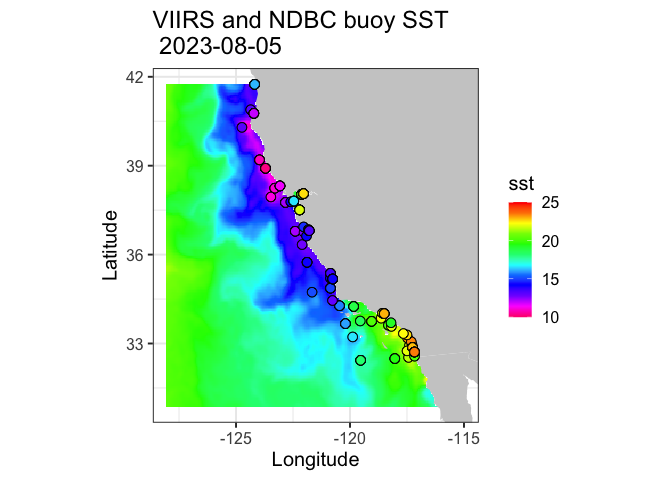
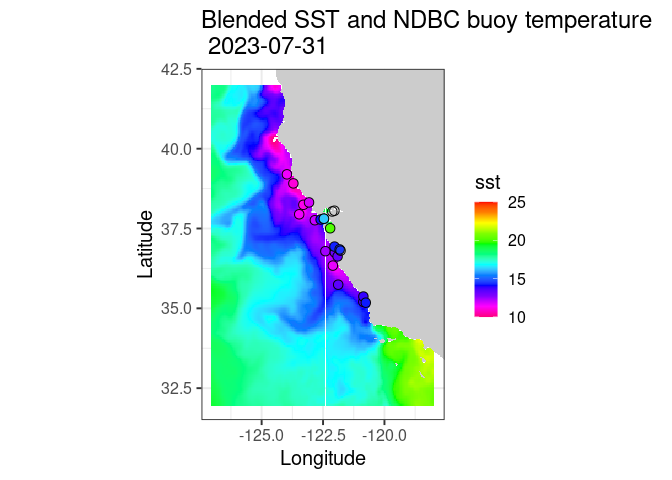
fixed a lot of inconsistencies fue to change of dataset from VIIRS chl to blended SST

Changed region(s): [[0.1562, 0.0, 0.9688, 1.0], [0.8125, 0.6562, 0.8438, 0.6875]]

diff --git a/matchup-satellite-buoy-data/matchup_satellite_buoy_data.md b/matchup-satellite-buoy-data/matchup_satellite_buoy_data.md
@@ -1,18 +1,14 @@
-# Matchup satellite and buoy data
-
-> history \| Updated August 2023
+\# Match up satellite and buoy data \> history \| Updated August 2023
 
 There are buoys in many locations around the world that provide data
 streams of oceanic and atmospheric parameters. The data are often
-available through data centers like the those National Data Buoy Center
-(NDBC <https://www.ndbc.noaa.gov>) and ARGO floats program
+available through data centers like the National Data Buoy Center (NDBC
+<https://www.ndbc.noaa.gov>) and the ARGO floats program
 (<http://www.argo.ucsd.edu>). In situ buoy data are widely used to
 monitor environmental conditions.
 
-In the absence of in situ buoy data, whether the buoy operation is
-discontinued, interrupted, or limited, satellite data with close
-temporal and spatial coverage can be used to create a dataset in the
-format of in situ buoy data.
+In-situ buoy data can be used to evaluate the accuracy of satellite
+data.
 
 **In this exercise, we will learn** how to match up satellite data to in
 situ buoy data using rerddap and rxtracto R packages.
@@ -22,19 +18,19 @@ The exercise demonstrates the following techniques:
 - Downloading tabular data (buoy data) from CoastWatch ERDDAP data
   server
 - Retrieving information about a dataset from ERDDAP
-- Subsetting satellite data within a rectangular boundaries
+- Subsetting satellite data within a rectangular boundary
 - Matching satellite data with the buoy data
-- Generating linear regression
+- Running statistical analysis to compare buoy and satellite data
 - Producing satellite maps and overlaying buoy data
 
 **Datasets used:**
 
 - <a href="https://coastwatch.pfeg.noaa.gov/erddap/griddap/nesdisBLENDEDsstDNDaily.graph">The
-  sea surface temperature (SST) satellite data</a> from NOAA Geo-polar
-  blended analysis are used for transforming to buoy data format
+  sea surface temperature (SST) satellite data</a> from the NOAA
+  Geo-polar blended analysis
 - <a href="https://coastwatch.pfeg.noaa.gov/erddap/tabledap/cwwcNDBCMet.graph?time%2Cwtmp%2Cwd&station=%2246259%22&time%3E=2020-09-15T00%3A00%3A00Z&time%3C=2022-09-15T00%3A00%3A00Z&.draw=markers&.marker=5%7C5&.color=0x000000&.colorBar=%7C%7C%7C%7C%7C&.bgColor=0xffccccff">
-  NDBC Standard Meteorological Buoy Data (dataset ID: cwwcNDBCMet) </a>
-  was used for validating or ground truthing
+  The NDBC Standard Meteorological Buoy Data (dataset ID: cwwcNDBCMet)
+  </a> is used for validating or ground truthing the satellite SST data
 
 **References:** -
 <a href="https://coastwatch.pfeg.noaa.gov/data.html">NOAA CoastWatch
@@ -44,7 +40,7 @@ National Data Buoy Center</a> -
 <a href="https://docs.ropensci.org/rerddap/">Rerddap R Package
 reference</a>
 
-## Install required packages and load libraries
+\## Install required packages and load libraries
 
 ``` r
 # Function to check if pkgs are installed, install missing pkgs, and load
@@ -61,7 +57,7 @@ pkgTest <- function(x)
 list.of.packages <- c( "ncdf4", "rerddap", "plotdap", "httr",
                        "lubridate", "gridGraphics",  "mapdata",
                        "ggplot2", "RColorBrewer", "grid", "PBSmapping", 
-                       "rerddapXtracto")
+                       "rerddapXtracto","dplyr")
 
 # create list of installed packages
 pkges = installed.packages()[,"Package"]
@@ -73,29 +69,34 @@ for (pk in list.of.packages) {
 
 ## Downloading buoy data from ERDDAP
 
-**Extract data using the rerddap::tabledap function**  
-\* \* In the region bounded by 30.86 to 41.75 north latitude and -128 to
--116 east longitude  
-\* request the station, latitude, longitude, time, and water temperature
-parameters  
-\* put the data into a data frame
+**Extract data using the rerddap::tabledap function**
+
+Using rerddap::tabledap function, we will request and download data with
+the following specifications:
+
+- Buoy dataset ID: cwwcNDBCMet
+- Region boundaries: 35 to 40 north latitude and -125 to -120 east
+  longitude  
+- Time span: 08/01/2023 to 08/10/2023
+- Variables: station, latitude, longitude, time, and water temperature
+  parameters
 
 ``` r
 # Subset and download tabular data from ERDDAP 
 buoy <- rerddap::tabledap(
   'cwwcNDBCMet', 
   fields=c('station', 'latitude',  'longitude', 'time', 'wtmp'), 
-  'time>=2023-08-01',   'time<=2023-08-13', 
-  'latitude>=30.86','latitude<=41.75', 'longitude>=-128','longitude<=-116',
+  'time>=2023-08-01',   'time<=2023-08-10', 
+  'latitude>=35','latitude<=40', 'longitude>=-125','longitude<=-120',
   'wtmp>0'
 )
 
-#Create data frame with downloaded data
+#Create data frame with the downloaded data
 buoy.df <-data.frame(station=buoy$station,
-                 longitude=as.numeric(buoy$longitude),
-                 latitude=as.numeric(buoy$latitude),
-                 time=strptime(buoy$time, "%Y-%m-%dT%H:%M:%S"),
-                 sst=as.numeric(buoy$wtmp))
+                     longitude=as.numeric(buoy$longitude),
+                     latitude=as.numeric(buoy$latitude),
+                     time=strptime(buoy$time, "%Y-%m-%dT%H:%M:%S"),
+                     temp=as.numeric(buoy$wtmp))
 
 # Check for unique stations
 unique.sta <- unique(buoy$sta)
@@ -103,17 +104,40 @@ n.sta <- length(unique.sta)
 n.sta
 ```
 
-    ## [1] 57
+    ## [1] 23
+
+**Plot the buoy data for the first 10 stations in buoy.df**
+
+Let’s see what the buoy data looks like for our time period.
+
+``` r
+plot(buoy.df$time,buoy.df$temp,type='n', xlab='Date', ylab='SST (ºC)',main='SST from the first 10 stations')
+for (i in 1:10){
+  I=which(buoy.df$station==unique.sta[i])
+  lines(buoy.df$time[I],buoy.df$temp[I])
+}
+```
+
+![](matchup_satellite_buoy_data_files/figure-gfm/buoy_plot-1.png)<!-- -->
 
 **Select buoy data closest in time to satellite data**
 
-Since buoy data are hourly and satellite data are daily, buoy data needs
-to be subsetted to the time coverage that corresponds to the time the
-satellite passes overhead (22h00 GMT (2pm local + 8).
+Since buoy data are hourly and the satellite data are daily, the buoy
+data needs to be averaged daily for each station.
 
 ``` r
-dailybuoy <- subset(buoy.df,hour(time)==22)
+buoy.df.day=buoy.df %>%
+  mutate(date = floor_date(time, unit="days")) %>%
+  group_by(station, date) %>%
+  summarize(
+    lon=mean(longitude),
+    lat=mean(latitude),
+    temp.day=mean(temp)
+    )
 ```
+
+    ## `summarise()` has grouped output by 'station'. You can override using the
+    ## `.groups` argument.
 
 ## Download Satellite SST (sea surface temperature) data
 
@@ -138,7 +162,7 @@ dataInfo
     ##  Base URL: https://coastwatch.pfeg.noaa.gov/erddap 
     ##  Dataset Type: griddap 
     ##  Dimensions (range):  
-    ##      time: (2019-07-22T12:00:00Z, 2023-08-13T12:00:00Z) 
+    ##      time: (2019-07-22T12:00:00Z, 2023-09-05T12:00:00Z) 
     ##      latitude: (-89.975, 89.975) 
     ##      longitude: (-179.975, 179.975) 
     ##  Variables:  
@@ -152,104 +176,108 @@ dataInfo
 
 **Extract the matchup data using rxtracto**
 
-We will subset satellite data using buoy data information.  
-1. get coordinates from buoy data 2. using rxtracto function and the
-coordinates from buoy data, subset satellite data
+We will extract satellite data for each buoy station.  
+1. get coordinates of each buoy station 2. use the rxtracto function and
+the buoy coordinates to download satellite data closest to each station
 
 ``` r
-# Set variable name of interest from satellite data
+# Set the variable name of interest from the satellite data
 parameter <- 'analysed_sst'
 
 # Set x,y,t,z coordinates based on buoy data
-xcoord <- dailybuoy$longitude
-ycoord <- dailybuoy$latitude
-tcoord <- dailybuoy$time
+xcoord <- buoy.df.day$lon
+ycoord <- buoy.df.day$lat
+tcoord <- buoy.df.day$date
 
 
-# Extract (subset) satellite data 
+# Extract satellite data 
 extract <- rxtracto(dataInfo, parameter=parameter, 
                     tcoord=tcoord,
                     xcoord=xcoord,ycoord=ycoord,
                     xlen=.01,ylen=.01)
                      
-dailybuoy$sat<-extract$`mean analysed_sst`
+buoy.df.day$sst<-extract$`mean analysed_sst`
 ```
 
 **Get subset of data where a satellite value was found**
 
-- Not all matchup will yield data, for example due to cloud cover.
+- Our satellite product is gap-free (gaps due to clouds were filled
+  using some interpolation) but it has a spatial resolution of 5km. Some
+  buoy stations may be so close to shore that they end up in the
+  landmask of the satellite data. So let’s find the stations that were
+  matched up to an SST pixel.
 
 ``` r
 # Get subset of data where there is a satellite value 
-goodbuoy<-subset(dailybuoy, sat > 0)
-unique.sta<-unique(goodbuoy$sta)
+goodbuoy<-subset(buoy.df.day, sst > 0)
+unique.sta<-unique(goodbuoy$station)
 nbuoy<-length(unique.sta)
-ndata<-length(goodbuoy$sta)
+ndata<-length(goodbuoy$station)
 ```
 
 ## Compare results for satellite and buoy
 
-- Plot the VIIRS satellite verses the buoy data to visualize how well
-  the two datasets track each other.
+- Plot the satellite SST verses the buoy temperature to visualize how
+  well the two datasets match each other.
 
 ``` r
 # Set up map title 
-main="California coast, 8/1/23-8/13/23"   
+main="California coast, 8/1/23-8/10/23"   
 
-p <- ggplot(goodbuoy, aes(sst, sat,color=latitude)) + 
+p <- ggplot(goodbuoy, aes(temp.day, sst,color=lat)) + 
      coord_fixed(xlim=c(8,25),ylim=c(8,25)) 
 p + geom_point() + 
   ylab('Blended SST')  + 
-  xlab('NDBC Buoy SST @ 2pm') +
+  xlab('NDBC Buoy average daily SST') +
   scale_x_continuous(minor_breaks = seq(8, 25)) + 
   scale_y_continuous(minor_breaks = seq(8, 25)) + 
   #geom_abline(a=fit[1],b=fit[2]) +
   #annotation_custom(my_grob) + 
   scale_color_gradientn(colours = rev(rainbow(9)), name="Buoy\nLatitude") +
-  labs(title=main) + theme(plot.title = element_text(size=25, face="bold", vjust=2)) 
+  labs(title=main) + theme(plot.title = element_text(size=20, face="bold", vjust=2)) 
 ```
 
 ![](matchup_satellite_buoy_data_files/figure-gfm/xyplot-1.png)<!-- -->
 
-Run a linear regression of Blended satellite verses the buoy data. \*
-The R squared in close to 1 (0.9807) \* The slope is near 1 (0.950711)
+Run a linear regression of Blended SST versus the buoy data. \* The R
+squared is close to 1 (0.8733) \* The slope is 0.7151
 
 ``` r
-lmHeight = lm(sat~sst, data = goodbuoy)
+lmHeight = lm(sst~temp.day, data = goodbuoy)
 summary(lmHeight)
 ```
 
     ## 
     ## Call:
-    ## lm(formula = sat ~ sst, data = goodbuoy)
+    ## lm(formula = sst ~ temp.day, data = goodbuoy)
     ## 
     ## Residuals:
-    ##     Min      1Q  Median      3Q     Max 
-    ## -4.0823 -0.5010  0.2333  0.7072  3.4517 
+    ##      Min       1Q   Median       3Q      Max 
+    ## -2.21964 -0.48245  0.02077  0.41449  2.19809 
     ## 
     ## Coefficients:
     ##             Estimate Std. Error t value Pr(>|t|)    
-    ## (Intercept) 1.180988   0.092772   12.73   <2e-16 ***
-    ## sst         0.897339   0.005369  167.14   <2e-16 ***
+    ## (Intercept)  3.65434    0.27805   13.14   <2e-16 ***
+    ## temp.day     0.71510    0.01997   35.81   <2e-16 ***
     ## ---
     ## Signif. codes:  0 '***' 0.001 '**' 0.01 '*' 0.05 '.' 0.1 ' ' 1
     ## 
-    ## Residual standard error: 1.101 on 2532 degrees of freedom
-    ## Multiple R-squared:  0.9169, Adjusted R-squared:  0.9169 
-    ## F-statistic: 2.794e+04 on 1 and 2532 DF,  p-value: < 2.2e-16
+    ## Residual standard error: 0.739 on 186 degrees of freedom
+    ## Multiple R-squared:  0.8733, Adjusted R-squared:  0.8726 
+    ## F-statistic:  1282 on 1 and 186 DF,  p-value: < 2.2e-16
 
-## Create a satellite map and overlay buoy data
+## Create a map of SST and overlay the buoy data
 
-**Extract VIIRS chlorophyll data for the month of August 2018**
+**Extract blended SST data for August 1st, 2023**
 
 ``` r
 # First define the box and time limits of the requested data 
-ylim<-c(30.87,41.75)
-xlim<-c(-128,-115)
+ylim<-c(32,42)
+xlim<-c(-127,-118)
 
 # Extract the monthly satellite data
 SST <- rxtracto_3D(dataInfo,xcoord=xlim,ycoord=ylim,parameter=parameter, 
-                   tcoord=c('2023-08-06','2023-08-06'))
+                   tcoord=c('2023-08-01','2023-08-01'))
 
 SST$sst <- drop(SST$analysed_sst)
 ```
@@ -269,7 +297,7 @@ sstFrame<-mapFrame(SST$longitude,SST$latitude,SST$sst)
 coast <- map_data("worldHires", ylim = ylim, xlim = xlim)
 my.col <- colorRampPalette(rev(brewer.pal(11, "RdYlBu")))(22-13) 
 
-buoy2<-subset(dailybuoy, month(time)==8 &day(time)==5 & sst > 0)
+buoy2<-subset(buoy.df.day, month(date)==8 &day(date)==1 & temp.day > 0)
 ```
 
 **Create the map**
@@ -281,8 +309,8 @@ myplot<-ggplot(data = sstFrame, aes(x = x, y = y, fill = sst)) +
   theme_bw(base_size = 15) + ylab("Latitude") + xlab("Longitude") +
   coord_fixed(1.3,xlim = xlim, ylim = ylim) +
   scale_fill_gradientn(colours = rev(rainbow(12)),limits=c(10,25),na.value = NA) +
-  ggtitle(paste("VIIRS and NDBC buoy SST \n", unique(as.Date(SST$time)))) +
-  geom_point(data=buoy2, aes(x=longitude,y=latitude,color=sst),size=3,shape=21,color="black") + 
+  ggtitle(paste("Blended SST and NDBC buoy temperature \n", unique(as.Date(SST$time)))) +
+  geom_point(data=buoy2, aes(x=lon,y=lat,color=temp.day),size=3,shape=21,color="black") + 
   scale_color_gradientn(colours = rev(rainbow(12)),limits=c(10,25),na.value ="grey20") 
   
 myplot
